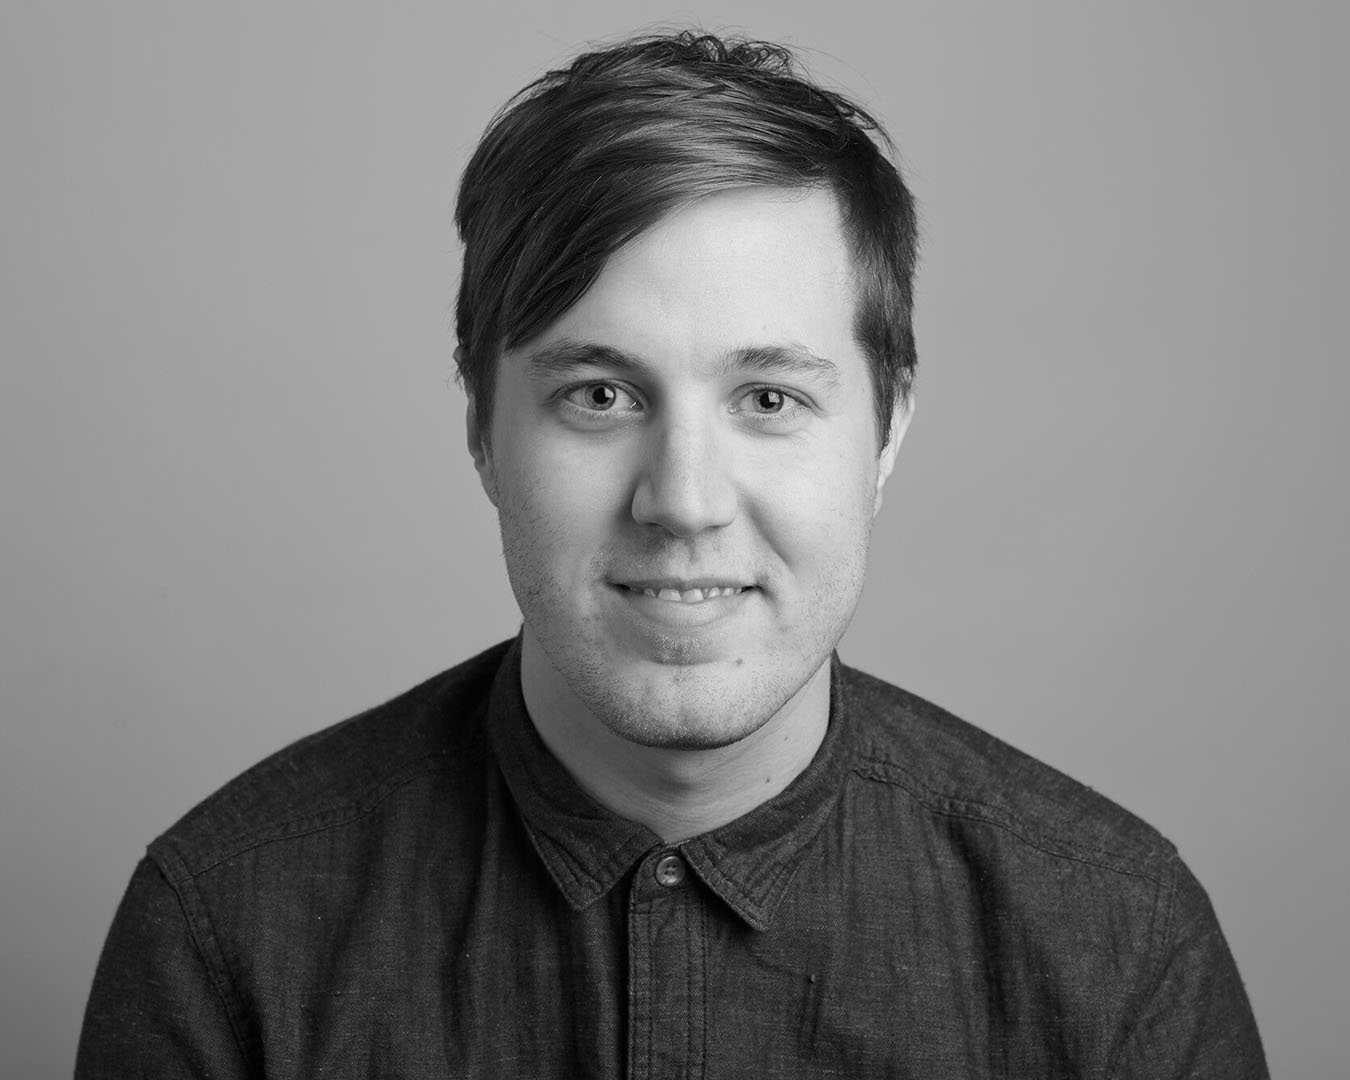
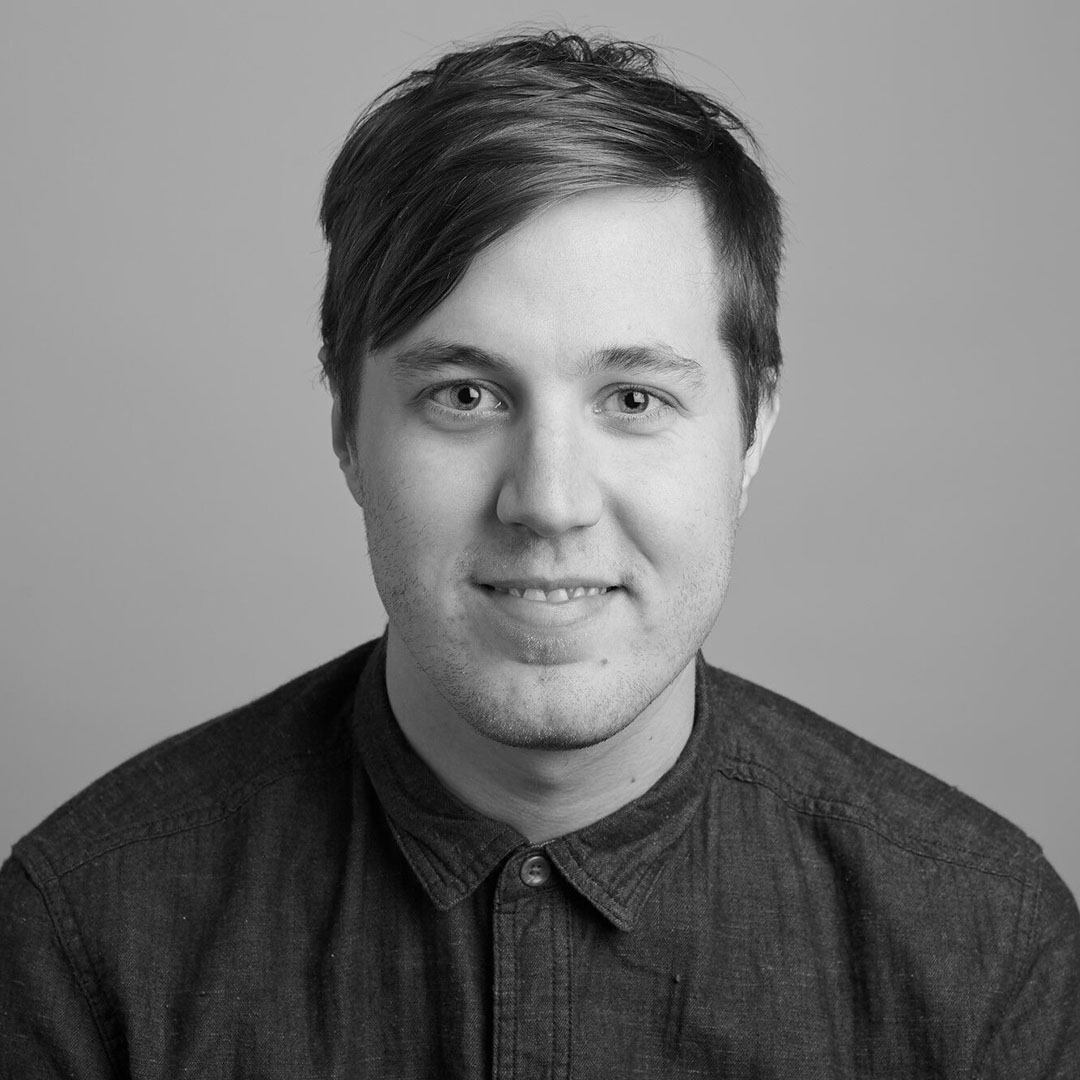
Added fonts.

diff --git a/index.html b/index.html
@@ -27,19 +27,22 @@
 		<div class="site-wrapper">
 			<div class="site-wrapper-inner">
 				<div class="cover-container">
+					<div class="col-xs-10 col-sm-6 col-xs-offset-1 col-sm-offset-3 card">
 						<div class="card-header">
 							<img src="images/me.jpeg" class="img-circle img-responsive center-block">
 						</div>
+						<hr>
 						<div class="card-block">
 							<h1>Thomas Vaeth</h1>
 							<h2>Full Stack Web Developer</h2>
 						</div>
 						<div class="card-footer">
-							<a href="#" target="_blank"><i class="fa fa-twitter fa-2x"></i></a>
-							<a href="#" target="_blank"><i class="fa fa-facebook fa-2x"></i></a>
-							<a href="#" target="_blank"><i class="fa fa-instagram fa-2x"></i></a>
-							<a href="#" target="_blank"><i class="fa fa-linkedin fa-2x"></i></a>
-						</div>
+							<a href="#" target="_blank"><i class="fa fa-twitter fa-lg"></i></a>
+							<a href="#" target="_blank"><i class="fa fa-facebook fa-lg"></i></a>
+							<a href="#" target="_blank"><i class="fa fa-instagram fa-lg"></i></a>
+							<a href="#" target="_blank"><i class="fa fa-linkedin fa-lg"></i></a>
+						</div>						
+					</div>
 				</div>
 			</div>
 		</div>

diff --git a/css/main.css b/css/main.css
@@ -1,3 +1,6 @@
+@import url(https://fonts.googleapis.com/css?family=Londrina+Outline);
+@import url(https://fonts.googleapis.com/css?family=Lato:100);
+
 html,
 body {
   height: 100%;
@@ -24,8 +27,36 @@ body {
 
 .cover-container {
   margin: 0 auto;
+}
+
+.card {
   background-color: #FFFFFF;
-  border: 1px solid #FFFFFF;
+  border-radius: 5px;
+}
+
+.card-header {
+  margin-top: 25px;
+}
+
+.card-footer {
+  margin-bottom: 25px;
+}
+
+img {
+  height: 125px;
+  width: 125px;
+}
+
+h1 {
+  font-family: 'Londrina Outline', cursive;
+  font-size: 45px;
+  text-transform: uppercase;
+}
+
+h2 {
+  font-family: 'Lato', sans-serif;
+  font-size: 18px;
+  text-transform: uppercase;
 }
 
 a,
@@ -35,10 +66,6 @@ a:active,
 a:visited {
   text-decoration: none;
   color: #000000;
-}
-
-i {
-  padding: 20px 10px;
 }
 
 @media (min-width: 992px) {
